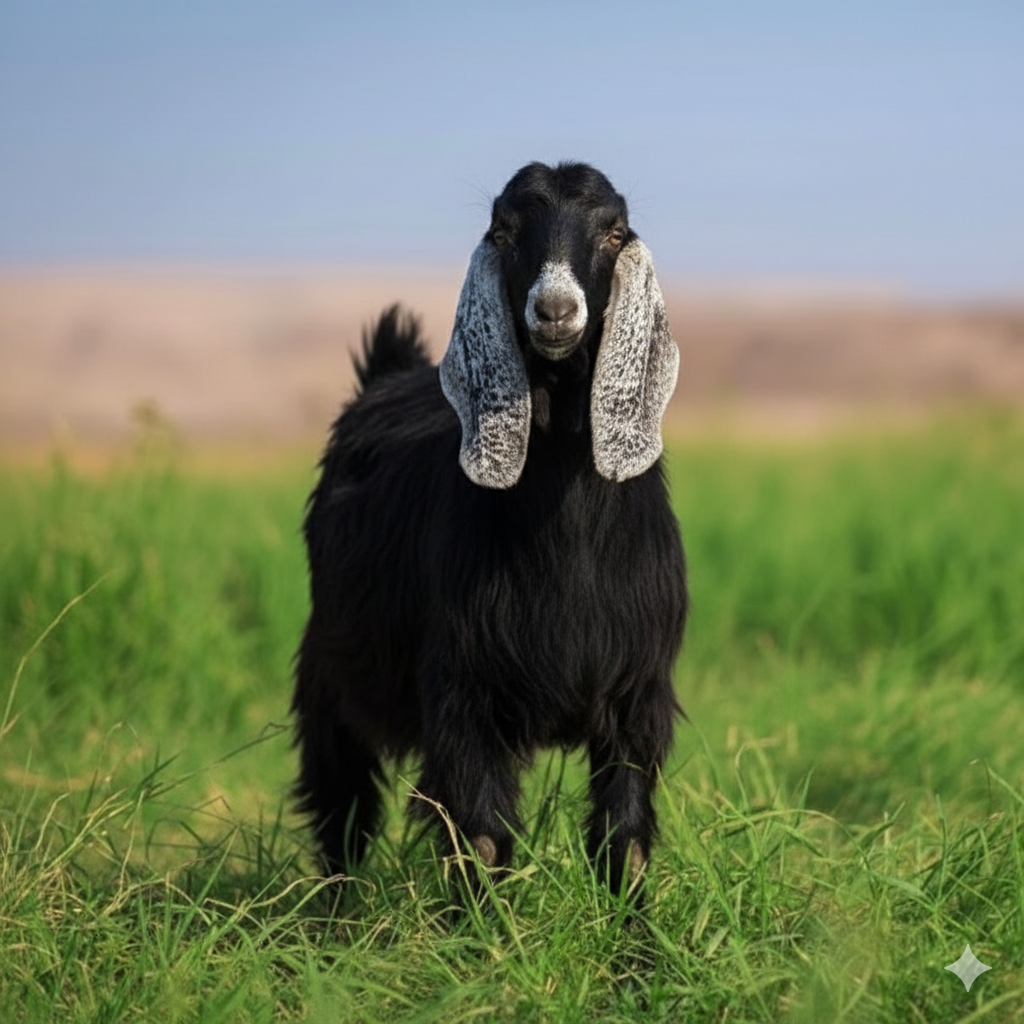
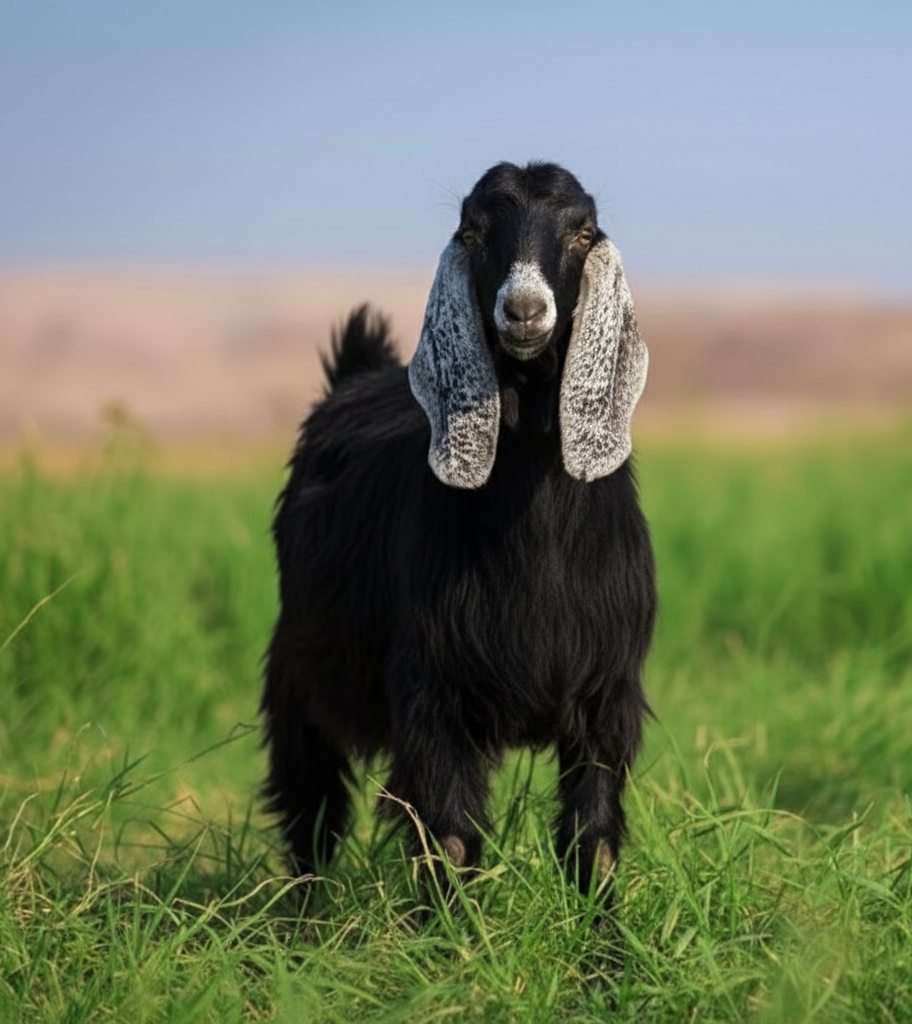
Add new chicken products and update livestock images and details
Add a new 'chicken' category to mock data and update image URLs and descriptions for existing livestock products.

Replit-Commit-Author: Agent
Replit-Commit-Session-Id: 9471eb97-ee43-4053-aaf9-ed055713602f
Replit-Commit-Checkpoint-Type: intermediate_checkpoint
Replit-Commit-Event-Id: f85e7fbe-bdd6-4c25-8f9b-8971c39ce0c6
Replit-Commit-Screenshot-Url: https://storage.googleapis.com/screenshot-production-us-central1/0919c9dc-bd96-456f-a73c-6ee7b81b49e4/9471eb97-ee43-4053-aaf9-ed055713602f/yxHqY3E
Replit-Helium-Checkpoint-Created: true

diff --git a/client/src/lib/mock-data.ts b/client/src/lib/mock-data.ts
@@ -1,20 +1,21 @@
 export const categories = [
   { id: 'all', name: 'الكل', icon: '🥩' },
   { id: 'lamb', name: 'الذبائح البلدية', icon: '🐑', image: '/images/naimi-realistic.png' },
+  { id: 'chicken', name: 'دجاج طازج', icon: '🍗', image: 'https://images.unsplash.com/photo-1587593810167-a84920ea0781?auto=format&fit=crop&q=80&w=800' },
   { id: 'kilo', name: 'لحم بالكيلو', icon: '⚖', image: '/images/meat-cuts.jpg' },
   { id: 'veggies', name: 'خضروات وفواكه', icon: '🍎', image: '/images/fresh-produce.jpg' },
   { id: 'kashta', name: 'كشتة ولحم', icon: '⛺', image: '/images/bbq-prep.jpg' },
 ];
 
 export const products = [
-  // الذبائح البلدية (Saudi Livestock) - 7 Variants as requested
+  // الذبائح البلدية (Saudi Livestock) - 7 Variants
   {
     id: 1,
     name: "نعيمي كبير",
     category: "lamb",
     price: 1850,
     unit: "ذبيحة",
-    image: "https://images.unsplash.com/photo-1545468202-39649bdf5f0f?auto=format&fit=crop&q=80&w=800",
+    image: "/images/naimi.jpg",
     description: "خروف نعيمي بلدي فاخر، حجم كبير، تربية مزارعنا الخاصة. الوزن التقريبي 22-25 كجم.",
     badge: "وفر المال",
     size: "كبير",
@@ -27,7 +28,7 @@ export const products = [
     category: "lamb",
     price: 1650,
     unit: "ذبيحة",
-    image: "https://images.unsplash.com/photo-1511044391307-299307ba74bb?auto=format&fit=crop&q=80&w=800",
+    image: "/images/naimi-realistic.png",
     description: "خروف نعيمي بلدي، حجم وسط، جودة عالية. الوزن التقريبي 18-21 كجم.",
     badge: "جديد",
     size: "وسط",
@@ -40,7 +41,7 @@ export const products = [
     category: "lamb",
     price: 1450,
     unit: "ذبيحة",
-    image: "https://images.unsplash.com/photo-1484557918186-73482bc4327e?auto=format&fit=crop&q=80&w=800",
+    image: "/images/naimi-live.jpg",
     description: "خروف نعيمي بلدي، حجم صغير، لحم طري. الوزن التقريبي 15-17 كجم.",
     badge: "وفر المال",
     size: "صغير",
@@ -53,7 +54,7 @@ export const products = [
     category: "lamb",
     price: 1300,
     unit: "ذبيحة",
-    image: "https://images.unsplash.com/photo-1484557052118-f32bd25b45b5?auto=format&fit=crop&q=80&w=800",
+    image: "/images/naimi-box.jpg",
     description: "نعيمي لباني صغير جداً، مثالي للمناسبات الخاصة. الوزن التقريبي 12-14 كجم.",
     badge: "جديد",
     size: "لباني",
@@ -79,7 +80,7 @@ export const products = [
     category: "lamb",
     price: 1550,
     unit: "ذبيحة",
-    image: "https://images.unsplash.com/photo-1484557918186-73482bc4327e?auto=format&fit=crop&q=80&w=800",
+    image: "/images/naimi.jpg",
     description: "خروف حري بلدي فاخر، من أجود أنواع اللحوم. الوزن التقريبي 20-23 كجم.",
     badge: "جديد",
     size: "كبير",
@@ -92,11 +93,46 @@ export const products = [
     category: "lamb",
     price: 1700,
     unit: "ذبيحة",
-    image: "https://images.unsplash.com/photo-1511044391307-299307ba74bb?auto=format&fit=crop&q=80&w=800",
+    image: "/images/naimi-box.jpg",
     description: "جذع فاخر مثالي للتميمة والعقيقة. الوزن التقريبي 19-22 كجم.",
     badge: "وفر المال",
     size: "جذع",
     weight: "19-22 كجم",
+    isFeatured: false,
+  },
+
+  // دجاج طازج (Fresh Chicken) - New Category
+  {
+    id: 26,
+    name: "حبة دجاج طازج",
+    category: "chicken",
+    price: 18,
+    unit: "حبة",
+    image: "https://images.unsplash.com/photo-1587593810167-a84920ea0781?auto=format&fit=crop&q=80&w=800",
+    description: "دجاج بلدي طازج يومياً من المزارع.",
+    badge: "جديد",
+    isFeatured: true,
+  },
+  {
+    id: 27,
+    name: "طبق صدور دجاج",
+    category: "chicken",
+    price: 35,
+    unit: "طبق",
+    image: "https://images.unsplash.com/photo-1604503468506-a8da13d82791?auto=format&fit=crop&q=80&w=800",
+    description: "صدور دجاج فيليه طازجة بدون عظم.",
+    badge: "وفر المال",
+    isFeatured: false,
+  },
+  {
+    id: 28,
+    name: "طبق أفخاذ دجاج",
+    category: "chicken",
+    price: 28,
+    unit: "طبق",
+    image: "https://images.unsplash.com/photo-1562967914-6cbb0f576d16?auto=format&fit=crop&q=80&w=800",
+    description: "أفخاذ دجاج طازجة ومنظفة.",
+    badge: "جديد",
     isFeatured: false,
   },
 
@@ -107,7 +143,7 @@ export const products = [
     category: "kilo",
     price: 95,
     unit: "كجم",
-    image: "https://images.unsplash.com/photo-1607623814075-e512199b008b?auto=format&fit=crop&q=80&w=800",
+    image: "/images/meat-cuts.jpg",
     description: "لحم غنم نعيمي طازج مقطع حسب الطلب.",
     badge: "جديد",
     isFeatured: true,
@@ -162,20 +198,20 @@ export const products = [
     category: "kilo",
     price: 40,
     unit: "كجم",
-    image: "https://images.unsplash.com/photo-1607623814075-e512199b008b?auto=format&fit=crop&q=80&w=800",
+    image: "/images/meat-by-kilo.jpg",
     description: "مقادم بلدي طازجة ونظيفة.",
     badge: "جديد",
     isFeatured: false,
   },
 
-  // خضروات وفواكه (Vegetables & Fruits) - 6 items
+  // خضروات وفواكه (Vegetables & Fruits) - Expanded
   {
     id: 14,
     name: "صندوق طماطم بلدي",
     category: "veggies",
     price: 25,
     unit: "صندوق",
-    image: "https://images.unsplash.com/photo-1518977676601-b53f02ac6d31?auto=format&fit=crop&q=80&w=800",
+    image: "/images/veggies.jpg",
     description: "طماطم بلدية طازجة من مزارعنا.",
     badge: "وفر المال",
     isFeatured: false,
@@ -230,8 +266,30 @@ export const products = [
     category: "veggies",
     price: 65,
     unit: "سلة",
-    image: "https://images.unsplash.com/photo-1610832958506-aa56368176cf?auto=format&fit=crop&q=80&w=800",
+    image: "/images/fresh-produce.jpg",
     description: "تشكيلة مختارة من الفواكه الموسمية.",
+    badge: "وفر المال",
+    isFeatured: false,
+  },
+  {
+    id: 29,
+    name: "توق تفاح أحمر",
+    category: "veggies",
+    price: 12,
+    unit: "كجم",
+    image: "https://images.unsplash.com/photo-1560747897-63bb324749af?auto=format&fit=crop&q=80&w=800",
+    description: "تفاح أحمر سكري طازج.",
+    badge: "جديد",
+    isFeatured: false,
+  },
+  {
+    id: 30,
+    name: "موز فيليبيني",
+    category: "veggies",
+    price: 7,
+    unit: "كجم",
+    image: "https://images.unsplash.com/photo-1571771894821-ad9b5886610d?auto=format&fit=crop&q=80&w=800",
+    description: "موز فيليبيني درجة أولى.",
     badge: "وفر المال",
     isFeatured: false,
   },
@@ -243,7 +301,7 @@ export const products = [
     category: "kashta",
     price: 450,
     unit: "بكس",
-    image: "https://images.unsplash.com/photo-1555939594-58d7cb561ad1?auto=format&fit=crop&q=80&w=800",
+    image: "/images/bbq-prep.jpg",
     description: "بكس متكامل للشواء يحتوي على لحم نعيمي، دجاج، وخضروات.",
     badge: "وفر المال",
     isFeatured: true,
@@ -254,7 +312,7 @@ export const products = [
     category: "kashta",
     price: 950,
     unit: "بكس",
-    image: "https://images.unsplash.com/photo-1529193591184-b1d58069ecdd?auto=format&fit=crop&q=80&w=800",
+    image: "/images/kashta.jpg",
     description: "عرض ملكي يحتوي على تشكيلة فاخرة من اللحوم والريش.",
     badge: "جديد",
     isFeatured: true,
@@ -302,7 +360,7 @@ export const products = [
     description: "ريش غنم متبلة مع مجموعة من المقبلات.",
     badge: "جديد",
     isFeatured: false,
-  }
+  },
 ];
 
 export const heroImage = "/images/naimi-realistic.png";
